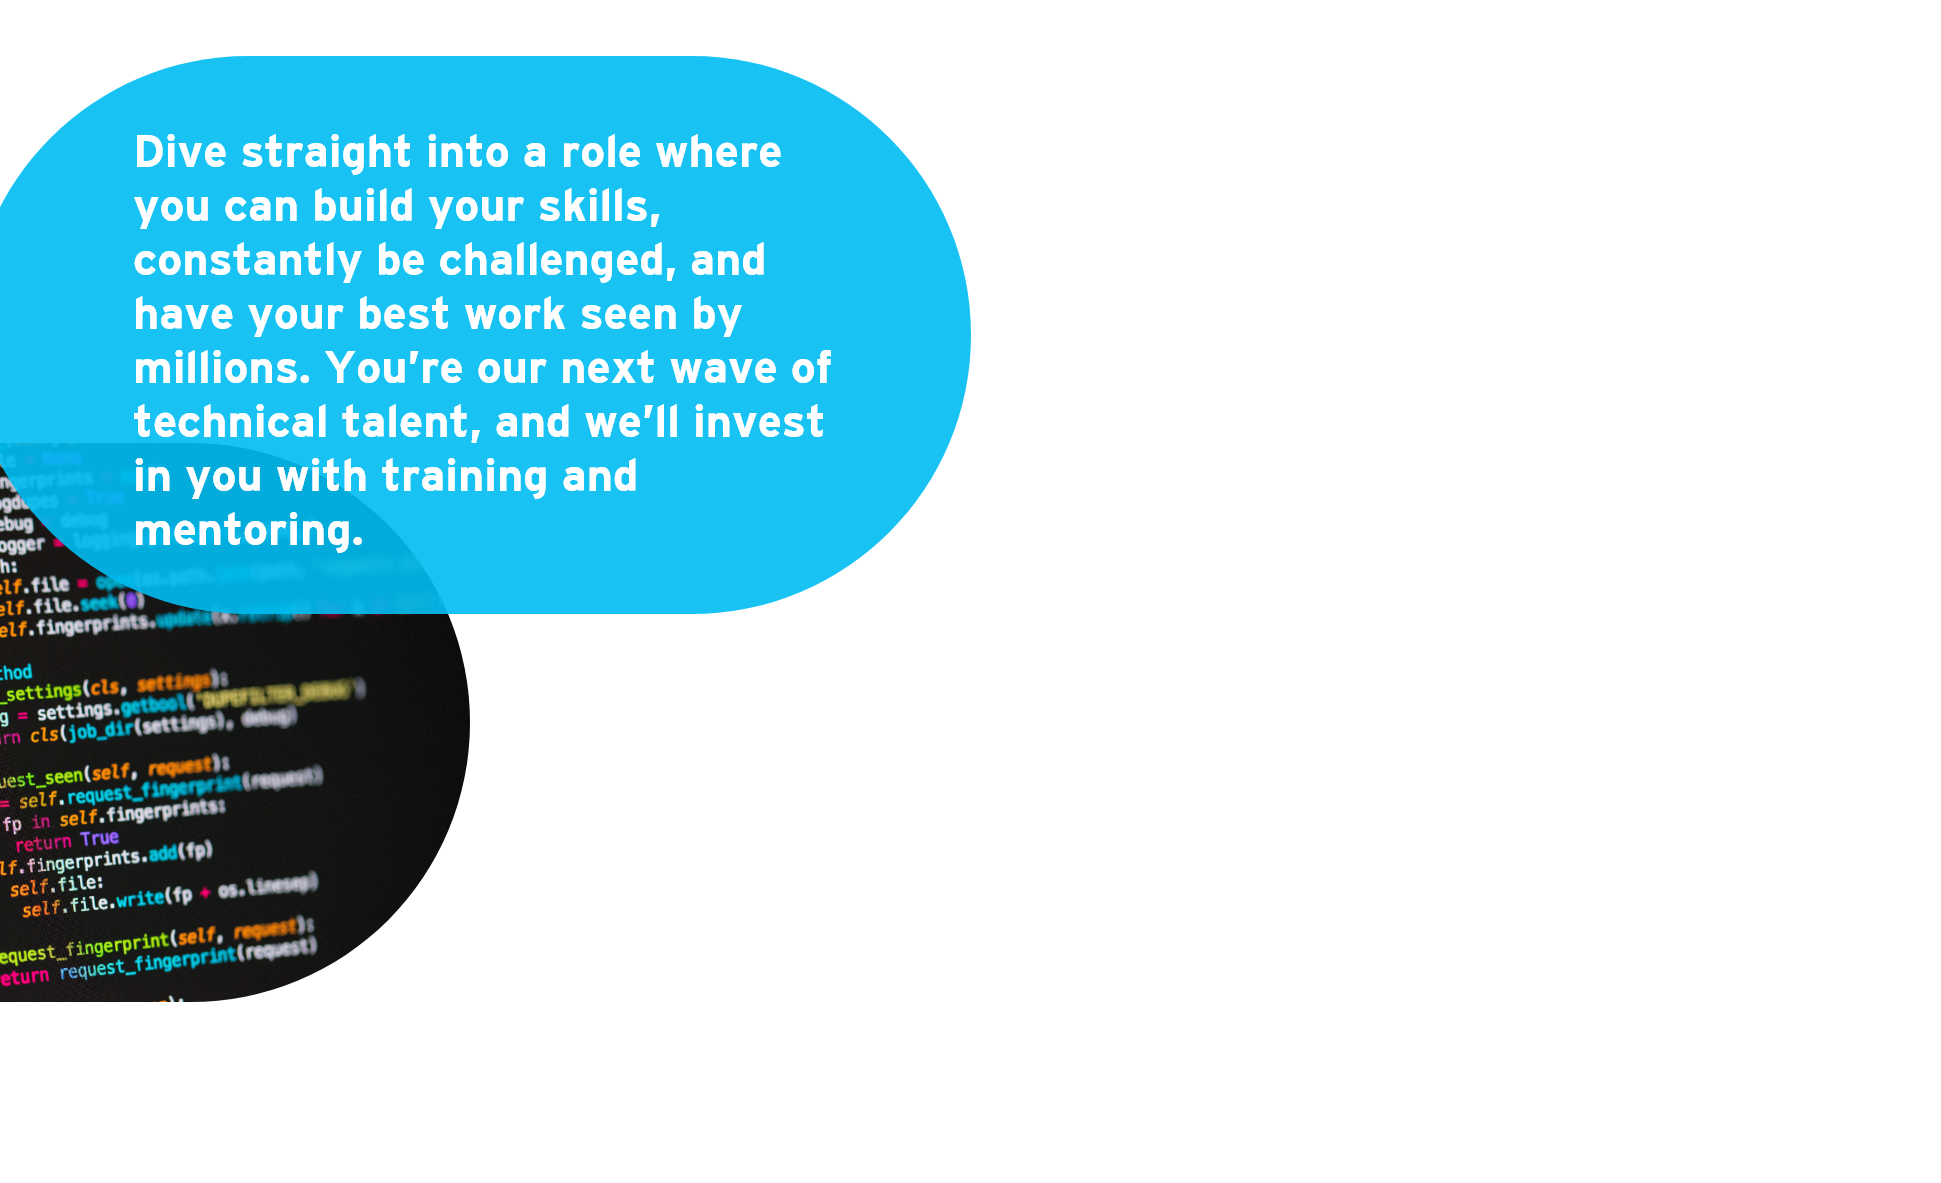
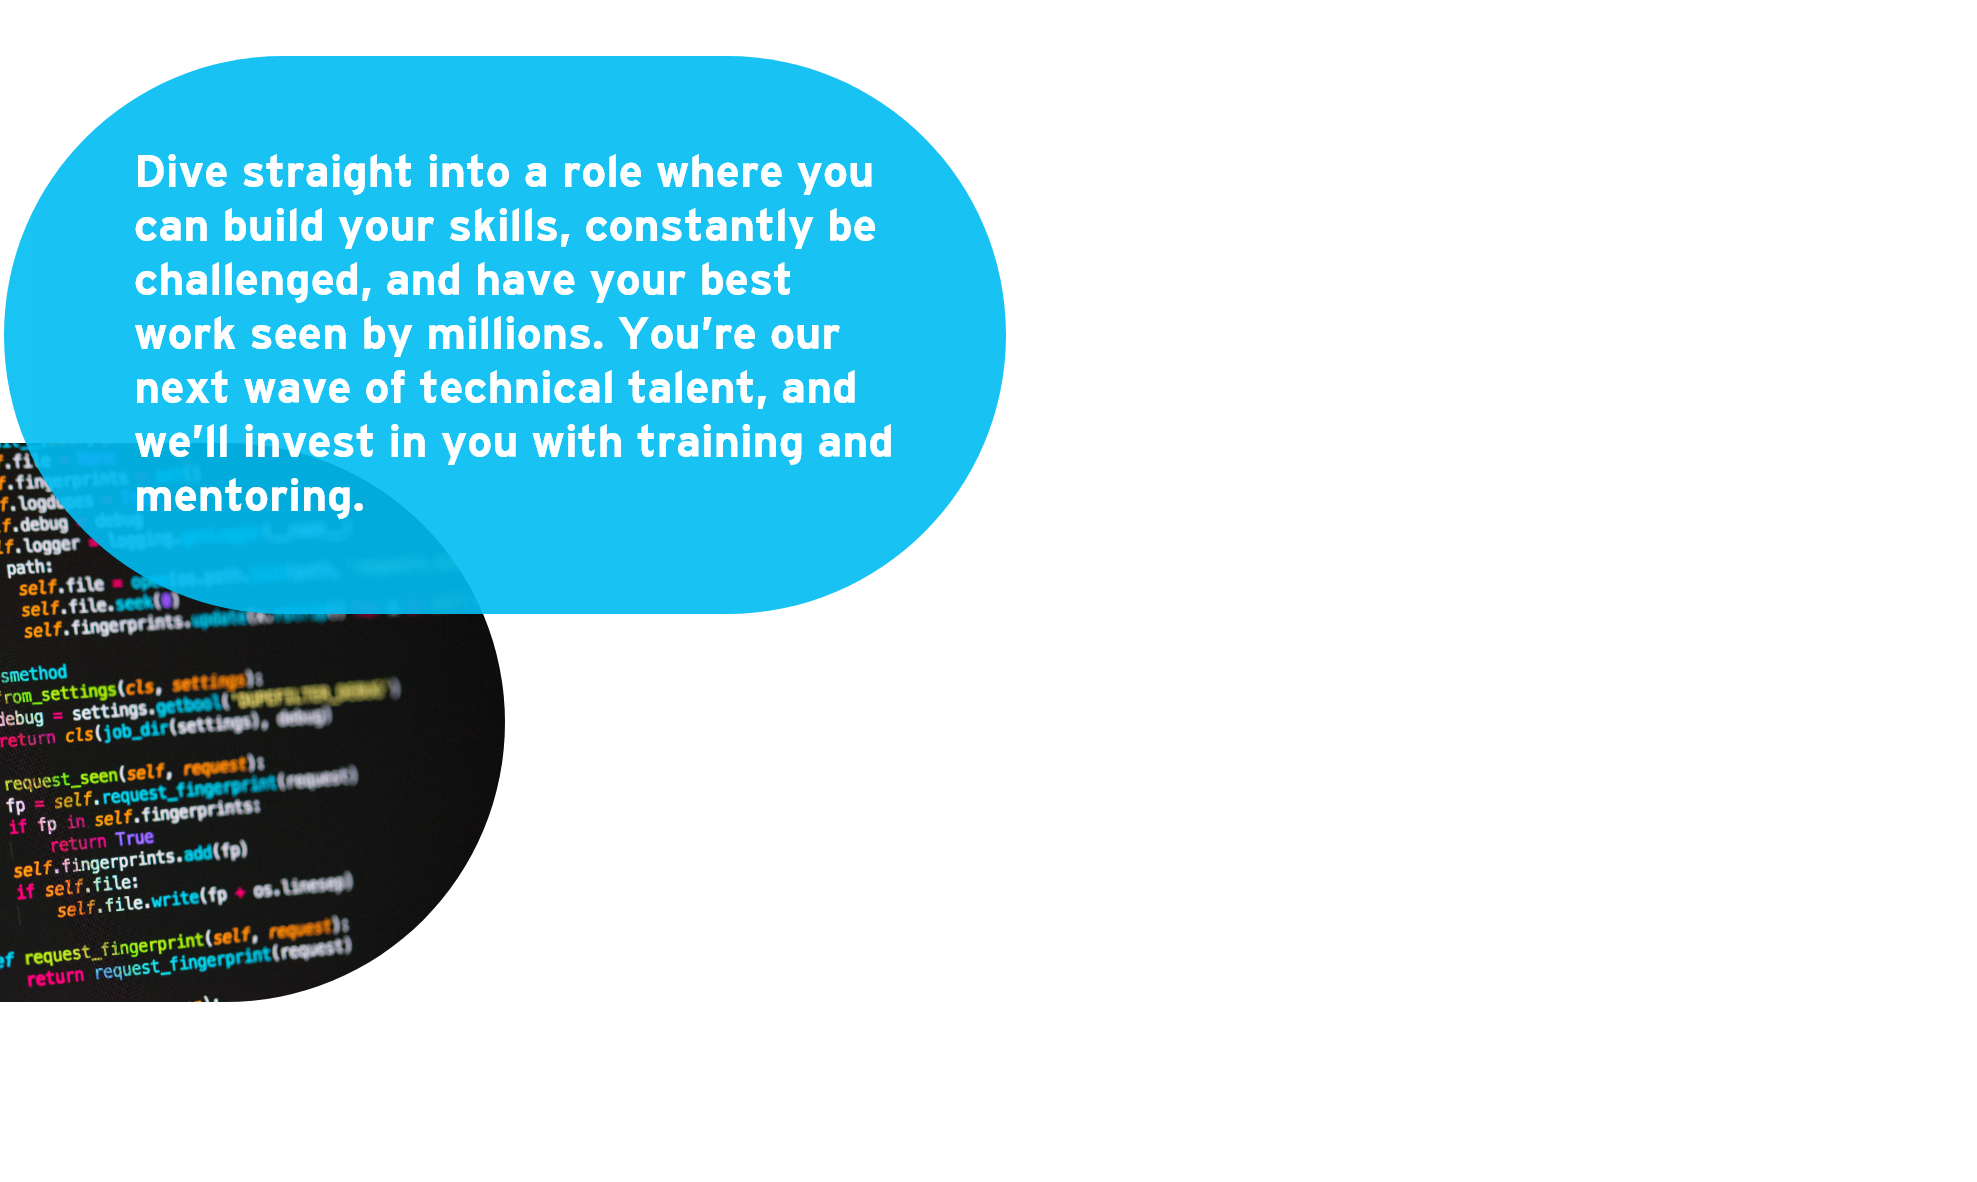
changed an image

diff --git a/TEP/tep.css b/TEP/tep.css
@@ -448,11 +448,11 @@ src: url("../Fonts/Interstate_Light.ttf");
 
     .benefits-image {
         background-image: url("Backgrounds/Desktop/Benefits.png"); /* The image used */
-        background-color: #cccccc; /* Used if the image is unavailable */
+        background-color: #ffffff; /* Used if the image is unavailable */
         height: 120vh; /* You must set a specified height */
         background-position: center; /* Center the image */
         background-repeat: no-repeat; /* Do not repeat the image */
-        background-size: cover; /* Resize the background image to cover the entire container */
+        background-size: contain; /* Resize the background image to cover the entire container */
         display: inline-block;
     }
 
